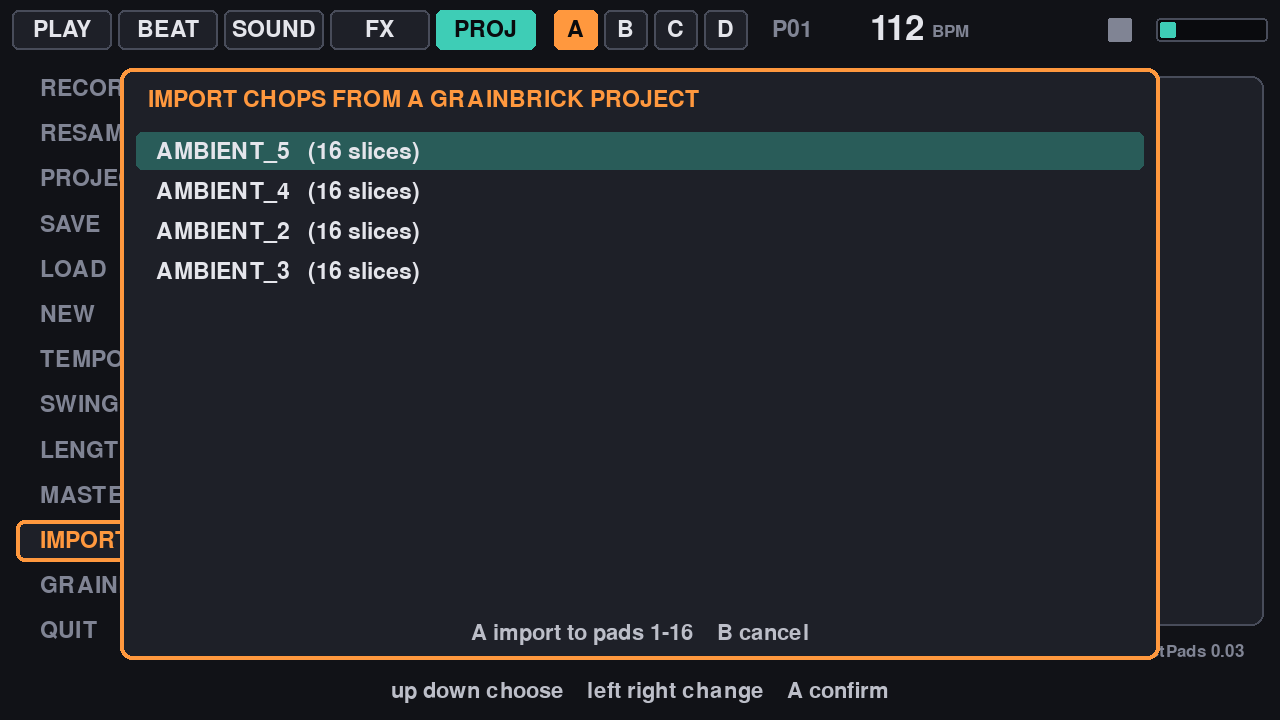
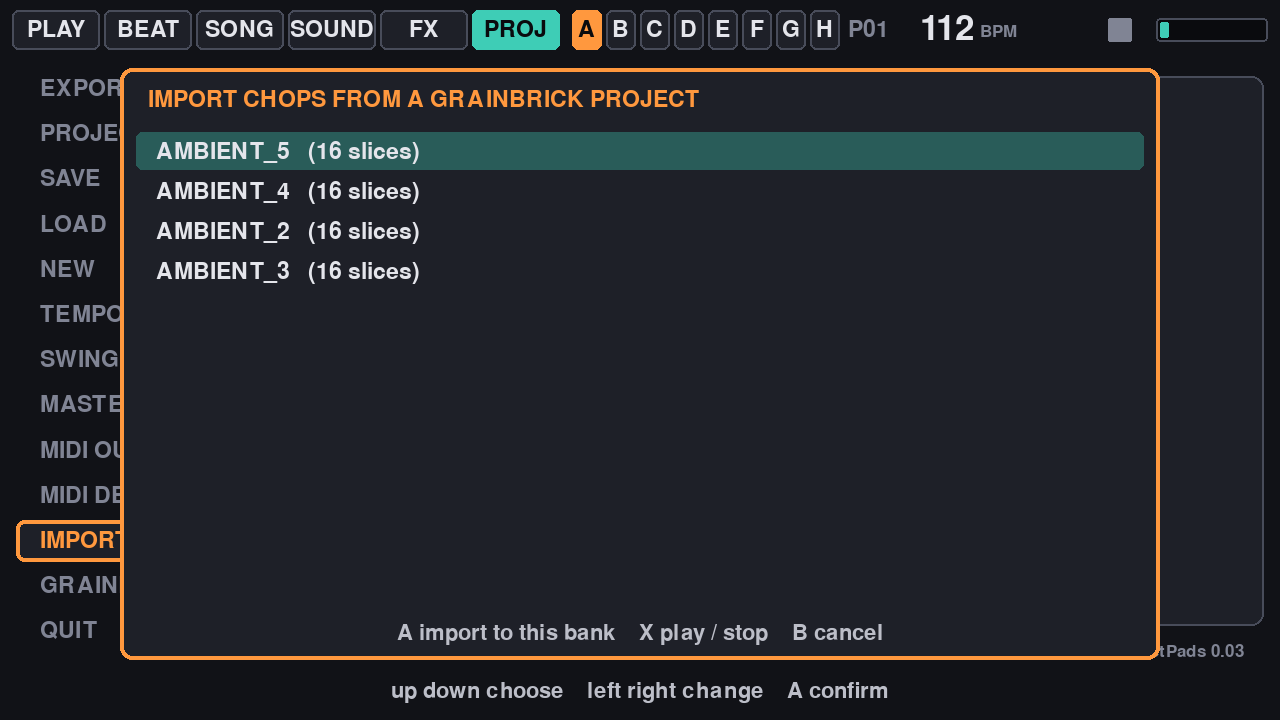
Manual and README for the new features, refreshed screenshots

diff --git a/site/index.html b/site/index.html
@@ -180,8 +180,9 @@ footer { max-width: 72rem; margin: 0 auto; padding: 2rem 1.5rem 3rem; border-top
   <div class="nav-inner">
     <strong>PocketPads</strong>
     <a href="#how">How it works</a>
-    <a href="#pages">The five pages</a>
+    <a href="#pages">The six pages</a>
     <a href="#controls">Controls</a>
+    <a href="#midi">MIDI</a>
     <a href="#grainbrick">GrainBrick</a>
     <a href="#samples">Your samples</a>
     <a href="#inside">Under the hood</a>
@@ -207,16 +208,16 @@ footer { max-width: 72rem; margin: 0 auto; padding: 2rem 1.5rem 3rem; border-top
   <h2>How it works</h2>
   <p>PocketPads is a drum machine in the MPC tradition. Everything follows one path, from a sound file to a finished loop.</p>
   <div class="path">
-    <div><b>Pads</b><span>Sixteen pads each hold one sound. A starter kit of drums and bass is built in, so it plays on first launch.</span></div>
-    <div><b>Steps</b><span>Each pad has a row of 16 or 32 steps. A filled step plays the pad at that moment in the bar.</span></div>
-    <div><b>Patterns</b><span>A project holds four patterns, A to D. Switch while playing and the change lands on the next bar.</span></div>
+    <div><b>Pads</b><span>Sixty-four pads in four banks of sixteen, one sound each. A starter kit of drums and bass is built in, so it plays on first launch.</span></div>
+    <div><b>Steps</b><span>Each pad has a row of 16 to 128 steps. A filled step plays the pad at that moment, at its own note if you give it one.</span></div>
+    <div><b>Patterns</b><span>A project holds eight patterns, A to H. Switch by hand, or chain them into a song that plays in order.</span></div>
     <div><b>Projects</b><span>Sixteen slots keep your pads, patterns, tempo and swing. Quitting saves the current one.</span></div>
   </div>
 </section>
 
 <section id="pages">
-  <h2>The five pages</h2>
-  <p>The tabs along the top are the five pages. <kbd>L1</kbd> and <kbd>R1</kbd> move between them. The bar also shows the current pattern, project slot, tempo, and an output meter.</p>
+  <h2>The six pages</h2>
+  <p>The tabs along the top are the six pages. <kbd>L1</kbd> and <kbd>R1</kbd> move between them. The bar also shows the current pattern, project slot, tempo, and an output meter.</p>
 
   <div class="page">
     <figure class="screen">
@@ -232,8 +233,9 @@ footer { max-width: 72rem; margin: 0 auto; padding: 2rem 1.5rem 3rem; border-top
         <dt><kbd class="face">B</kbd></dt><dd>Mute or unmute it</dd>
         <dt><kbd class="face">X</kbd></dt><dd>Record on or off. While the beat runs, what you play is written into the pattern on the nearest step.</dd>
         <dt><kbd class="face">Y</kbd></dt><dd>Jump to the SOUND page for this pad</dd>
-        <dt><kbd>L2</kbd> hold</dt><dd>Buttons play pads 1–8</dd>
-        <dt><kbd>R2</kbd> hold</dt><dd>Buttons play pads 9–16</dd>
+        <dt><kbd>L2</kbd> hold</dt><dd>Buttons play the first eight pads of the bank</dd>
+        <dt><kbd>R2</kbd> hold</dt><dd>Buttons play the other eight</dd>
+        <dt><kbd>SELECT</kbd>+<kbd class="face">Y</kbd></dt><dd>Next bank of pads. The four numbered squares show which bank is on screen.</dd>
         <dt><kbd>SELECT</kbd>+<kbd class="face">X</kbd></dt><dd>Note repeat on or off. With it on, holding a pad retriggers it in time, for rolls.</dd>
         <dt><kbd>SELECT</kbd>+<kbd>LEFT</kbd> <kbd>RIGHT</kbd></dt><dd>Repeat rate, from 1/4 to 1/32 including triplets</dd>
       </dl>
@@ -250,14 +252,34 @@ footer { max-width: 72rem; margin: 0 auto; padding: 2rem 1.5rem 3rem; border-top
       <h3>Draw the beat on a grid</h3>
       <p>One row per pad, one column per step. Move the cursor with the D-pad and fill in where each sound should hit.</p>
       <dl class="keys">
-        <dt><kbd class="face">A</kbd></dt><dd>Turn a step on or off</dd>
+        <dt><kbd class="face">A</kbd></dt><dd>Turn a step on or off. Keep it held and move to paint a run of steps, or wipe one.</dd>
         <dt><kbd class="face">Y</kbd></dt><dd>Accent the step (louder)</dd>
+        <dt><kbd>SELECT</kbd>+<kbd>LEFT</kbd> <kbd>RIGHT</kbd></dt><dd>Step note: move this step up or down a semitone, for basslines and melodies from one pad. The step shows its note.</dd>
+        <dt><kbd>SELECT</kbd>+<kbd>L2</kbd> <kbd>R2</kbd></dt><dd>Step note down or up an octave</dd>
         <dt><kbd class="face">B</kbd></dt><dd>Mute the track</dd>
         <dt><kbd class="face">X</kbd></dt><dd>Solo the track</dd>
         <dt><kbd>L2</kbd> <kbd>R2</kbd></dt><dd>Jump four steps</dd>
         <dt><kbd>SELECT</kbd>+<kbd class="face">A</kbd></dt><dd>Clear the track</dd>
         <dt><kbd>SELECT</kbd>+<kbd class="face">X</kbd></dt><dd>Clear the whole pattern</dd>
       </dl>
+    </div>
+  </div>
+
+  <div class="page">
+    <figure class="screen">
+      <img src="img/song.png" width="1280" height="720" loading="lazy" alt="SONG page: song mode on, a chain of pattern letters with the playing one lit, and rows to copy a pattern, clear it and set its length.">
+      <figcaption>A chain of patterns. The lit slot is the one playing.</figcaption>
+    </figure>
+    <div>
+      <span class="tab">SONG</span>
+      <h3>Chain patterns into a song</h3>
+      <p>Build each section of a track as its own pattern, then list the patterns in the order they should play. With song mode on, START plays the chain from the top and loops it.</p>
+      <ul>
+        <li><b>Chain.</b> Up to 64 slots. On the empty slot at the end, A adds the current pattern. On a filled slot, A and Y step through the patterns, X repeats the slot and B removes it.</li>
+        <li><b>Copy pattern.</b> Copies the current pattern to another letter and switches to it, the quick way to make a variation.</li>
+        <li><b>Clear pattern.</b> Empties the current pattern.</li>
+        <li><b>Length.</b> 16 to 128 steps per pattern. Left and right change it a bar at a time; hold Y to change it one step at a time for odd lengths.</li>
+      </ul>
     </div>
   </div>
 
@@ -289,6 +311,7 @@ footer { max-width: 72rem; margin: 0 auto; padding: 2rem 1.5rem 3rem; border-top
         <li><b>Mode.</b> One-shot plays to the end. Hold plays only while the button is down. Loop starts on one hit and stops on the next.</li>
         <li><b>Reverse, Fade in, Fade out, Fine tune.</b> Flip the sound, soften its edges, or tune it in cents.</li>
         <li><b>Chop.</b> Cut this pad's sample onto the pads: at detected hits, into 4, 8 or 16 equal pieces, or live, where the sample plays and you tap A wherever a new pad should begin.</li>
+        <li><b>Bit crush and Lo-fi rate.</b> Fewer bits adds grit; a lower sample rate gives the dull, ringing top of old samplers.</li>
         <li><b>Stretch.</b> Makes a sound longer or shorter, from half to double its length, without changing its pitch. Drum hits are kept sharp and on time; long held notes can turn a little grainy at large settings. Works on samples up to 30 seconds.</li>
         <li><b>Fit to tempo.</b> Makes a loop last exactly one beat, one bar or several bars at the project tempo. Fit style chooses how: Keep pitch stretches it, so the loop stays in key; Change pitch speeds it up or slows it down like a classic sampler.</li>
         <li><b>Spread.</b> Puts this sound on all sixteen pads a semitone apart, with this pad as the root, for bass lines and melodies.</li>
@@ -314,7 +337,7 @@ footer { max-width: 72rem; margin: 0 auto; padding: 2rem 1.5rem 3rem; border-top
     <div>
       <span class="tab">FX</span>
       <h3>Effects and live performance</h3>
-      <p>The left side sets the shared delay and reverb: delay time locked to the tempo, feedback, and reverb size. The right side is for playing the mix itself. Hold a face button and the effect applies to everything; let go and the sound snaps back.</p>
+      <p>The left side sets the master compressor, which pulls the whole mix together, and the shared delay and reverb: delay time locked to the tempo, feedback, and reverb size. The right side is for playing the mix itself. Hold a face button and the effect applies to everything; let go and the sound snaps back.</p>
       <dl class="keys">
         <dt><kbd class="face">A</kbd> hold</dt><dd>Stutter: loops the last slice of the beat</dd>
         <dt><kbd class="face">B</kbd> hold</dt><dd>Tape stop: the mix slows to a halt</dd>
@@ -337,8 +360,9 @@ footer { max-width: 72rem; margin: 0 auto; padding: 2rem 1.5rem 3rem; border-top
         <li><b>Record.</b> Ten seconds from the built-in microphone, cut at each hit and placed on the pads.</li>
         <li><b>Resample.</b> Records what PocketPads itself is playing, effects included, onto the selected pad. Press START to finish.</li>
         <li><b>Tempo and Swing.</b> 40 to 300 BPM. Swing uses the MPC scale: 50% is straight, 66% is a triplet shuffle, 75% is the most it goes.</li>
-        <li><b>Length.</b> 16 or 32 steps, set per pattern.</li>
+        <li><b>Export audio.</b> Saves the song, or four rounds of the current pattern, as a WAV file in <code>samples/exports/</code>.</li>
         <li><b>Master.</b> Overall output level.</li>
+        <li><b>MIDI out and MIDI devices.</b> See <a href="#midi">MIDI</a> below.</li>
         <li><b>Import Chops and GrainBrick.</b> The link to GrainBrick, <a href="#grainbrick">described below</a>.</li>
       </ul>
       <p>The panel on the right reports audio health: dropouts and peak load for the session.</p>
@@ -354,13 +378,25 @@ footer { max-width: 72rem; margin: 0 auto; padding: 2rem 1.5rem 3rem; border-top
     <tbody>
       <tr><td><kbd>START</kbd></td><td>Play or stop the beat</td></tr>
       <tr><td><kbd>L1</kbd> <kbd>R1</kbd></td><td>Previous or next page</td></tr>
-      <tr><td><kbd>SELECT</kbd>+<kbd>L1</kbd> <kbd>R1</kbd></td><td>Previous or next pattern (A–D)</td></tr>
+      <tr><td><kbd>SELECT</kbd>+<kbd>L1</kbd> <kbd>R1</kbd></td><td>Previous or next pattern (A–H)</td></tr>
+      <tr><td><kbd>SELECT</kbd>+<kbd class="face">Y</kbd></td><td>Next bank of pads (1–4)</td></tr>
       <tr><td><kbd>SELECT</kbd>+<kbd>UP</kbd> <kbd>DOWN</kbd></td><td>Tempo up or down by 1 BPM</td></tr>
       <tr><td><kbd>SELECT</kbd>+<kbd>START</kbd></td><td>Quit, saving the project to its slot</td></tr>
     </tbody>
   </table>
   </div>
   <p style="margin-top:1.5rem">Button names match what is printed on the Smart Pro: A is the right-hand face button and B is the bottom one.</p>
+</section>
+
+<section id="midi">
+  <h2>MIDI</h2>
+  <p>Plug a USB MIDI controller into the handheld and PocketPads connects to it by itself; the MIDI DEVICES row on the PROJ page shows what it found. This part is new and has not yet been tried with real hardware, so expect rough edges.</p>
+  <ul>
+    <li><b>Pads and keys.</b> Notes from C1 (note 36) upward play pads 1 to 64, with velocity.</li>
+    <li><b>Knobs.</b> The first eight knobs, in the order of their controller numbers, set the selected pad's volume, pitch, filter, delay, reverb, start, end and fade out.</li>
+    <li><b>MIDI out.</b> Choose a channel on the PROJ page and every pad that sounds also sends a note, with step notes included, so the sequencer can play an external synth. Clock, start and stop go out too, to keep other gear in time.</li>
+    <li><b>Start and stop</b> from a controller start and stop the beat.</li>
+  </ul>
 </section>
 
 <section id="grainbrick">
@@ -440,7 +476,7 @@ footer { max-width: 72rem; margin: 0 auto; padding: 2rem 1.5rem 3rem; border-top
 
   <div class="status">
     <h3>Where it stands</h3>
-    <p>This is an early version, tested on one TrimUI Smart Pro running KNULLI Scarab. Pads, the step grid, patterns, projects, the GrainBrick link, note repeat, per-pad filter, delay and reverb, choke groups and the performance effects, microphone recording, chopping, resampling and time-stretch that keeps pitch are all in. Not built: chaining patterns into a song, lo-fi effects, and MIDI controllers.</p>
+    <p>This is an early version, tested on one TrimUI Smart Pro running KNULLI Scarab. Pads, the step grid, patterns, projects, the GrainBrick link, note repeat, per-pad filter, delay and reverb, choke groups and the performance effects, microphone recording, chopping, resampling, time-stretch, song mode, lo-fi, a master compressor, audio export and pad banks are all in. MIDI is in but untested with real controllers. Not built: Bluetooth MIDI, and naming projects.</p>
     <p>PocketPads is open source under the MIT licence. The code and install instructions are at <a href="https://github.com/prone/pocketpads">github.com/prone/pocketpads</a>.</p>
   </div>
 </section>

diff --git a/pocketpads/main.py b/pocketpads/main.py
@@ -581,7 +581,7 @@ class App:
                     if len(song) >= SONG_SLOTS:
                         self.say("THE CHAIN IS FULL (%d)" % SONG_SLOTS)
                     else:
-                        song.append(e.cur_pat)
+                        song.append(e.cur_pat if e.pending_pat is None else e.pending_pat)
                         self.song_cur = len(song)
                 else:
                     song[self.song_cur] = (song[self.song_cur] + d) % NPAT
@@ -1669,7 +1669,7 @@ class App:
                 "FADE IN": "%d ms" % p.fin if p.fin else "OFF", "FADE OUT": "%d ms" % p.fout if p.fout else "OFF",
                 "CHOP": "%s   -  A to chop onto pads" % self.CHOPS[self.chop_mode][0],
                 "FIT TO TEMPO": "%s at %d BPM   -  A to fit" % (FITS[self.fit_idx][0], round(e.bpm)),
-                "SPREAD": "this sound on all 16 pads of the bank, a semitone apart  -  A",
+                "SPREAD": "across this bank's 16 pads, a semitone apart  -  A",
                 "SAMPLE": "%s   -  A to browse files" % (os.path.basename(p.path)[:34] or "(none)")}
         fracs = {"VOLUME": p.vol / 1.5, "PITCH": (p.pitch + 24) / 48.0, "FILTER": (p.filt + 100) / 200.0,
                  "FINE TUNE": (p.fine + 50) / 100.0, "BIT CRUSH": p.crush / (len(CRUSH_BITS) - 1.0),

diff --git a/README.md b/README.md
@@ -10,7 +10,11 @@ A 16-pad sample sequencer and sampler for Linux handhelds, built for the TrimUI 
 
 ## Features
 
-- Sixteen pads, a 16 or 32 step grid with accents, four patterns, sixteen project slots
+- 64 pads in four banks of sixteen, a step grid of 16 to 128 steps with accents and a note per step, eight patterns, sixteen project slots
+- Song mode: chain patterns in order, copy and clear patterns
+- Lo-fi per pad (bit crush, sample-rate reduction) and a master compressor
+- Export the song or pattern as a WAV file
+- MIDI through the ALSA sequencer: controllers play pads and turn knobs; pads send notes, clock, start and stop (new, not yet tried with real hardware)
 - Per pad: volume, pitch and fine tune, one-knob filter, trim, fades, reverse, choke group, delay and reverb sends, and one-shot, hold or loop play modes
 - Note repeat, MPC-style swing (50 to 75%), and hold-to-apply stutter, tape stop and filter sweeps on the whole mix
 - Sampling: record ten seconds from the built-in microphone and have it chopped onto the pads
@@ -47,6 +51,7 @@ Environment variables:
 |---|---|
 | `PP_WINDOW=WxH` | Run in a window of that size instead of full screen |
 | `PP_NOAUDIO=1` | Do not open an audio device |
+| `PP_NOMIDI=1` | Do not open MIDI |
 | `PP_REC_DEVICE` | ALSA capture device for recording (default `hw:0,0`, the Smart Pro's microphone) |
 | `PP_GB_DIR` | Folder of a GrainBrick install to link to |
 | `PP_SCRIPT=file` | Play back a script of button presses, for testing (see `load_script` in `main.py`) |
@@ -65,6 +70,7 @@ Nothing but the Smart Pro has been tried. The parts most likely to need changes 
 |---|---|
 | `pocketpads/engine.py` | The sound engine: pads, sequencer, effects, WAV reading and writing, project files. No pygame. |
 | `pocketpads/main.py` | Screens, input and everything the user touches |
+| `pocketpads/midi.py` | MIDI in and out through the ALSA sequencer (ctypes, no extra packages) |
 | `pocketpads/kit.py` | Synthesizes the starter kit and the demo beat |
 | `pocketpads/art/` | The artwork and the script that draws it |
 | `pocketpads/tests/` | Engine tests |
@@ -85,7 +91,8 @@ Each prints a line ending in `OK` when it passes.
 - Changing a pad setting re-renders that pad's audio; on samples longer than a few seconds this waits until you stop adjusting.
 - Converting a long MP3 pauses the screen until it finishes.
 - Stretch works on samples up to 30 seconds and pauses briefly while it renders (about 0.16 s per second of audio on the Smart Pro).
-- No MIDI yet.
+- MIDI has not been tried with real controllers yet, and Bluetooth MIDI devices are not connected automatically.
+- Projects are numbered, not named.
 
 ## Contributing
 
